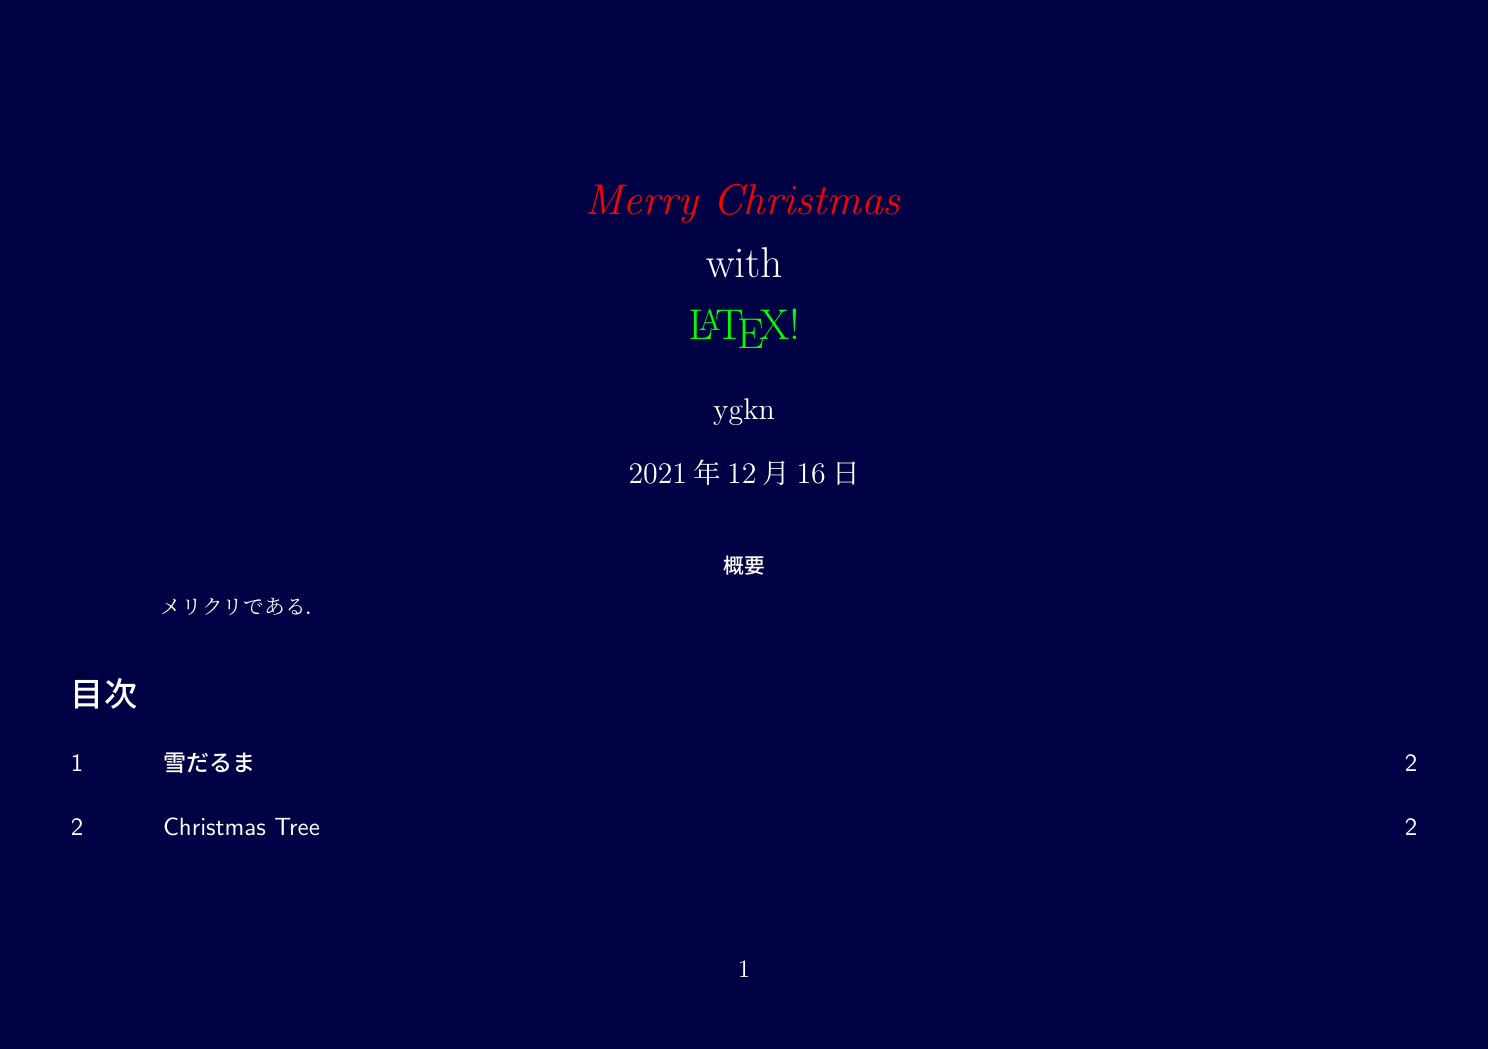
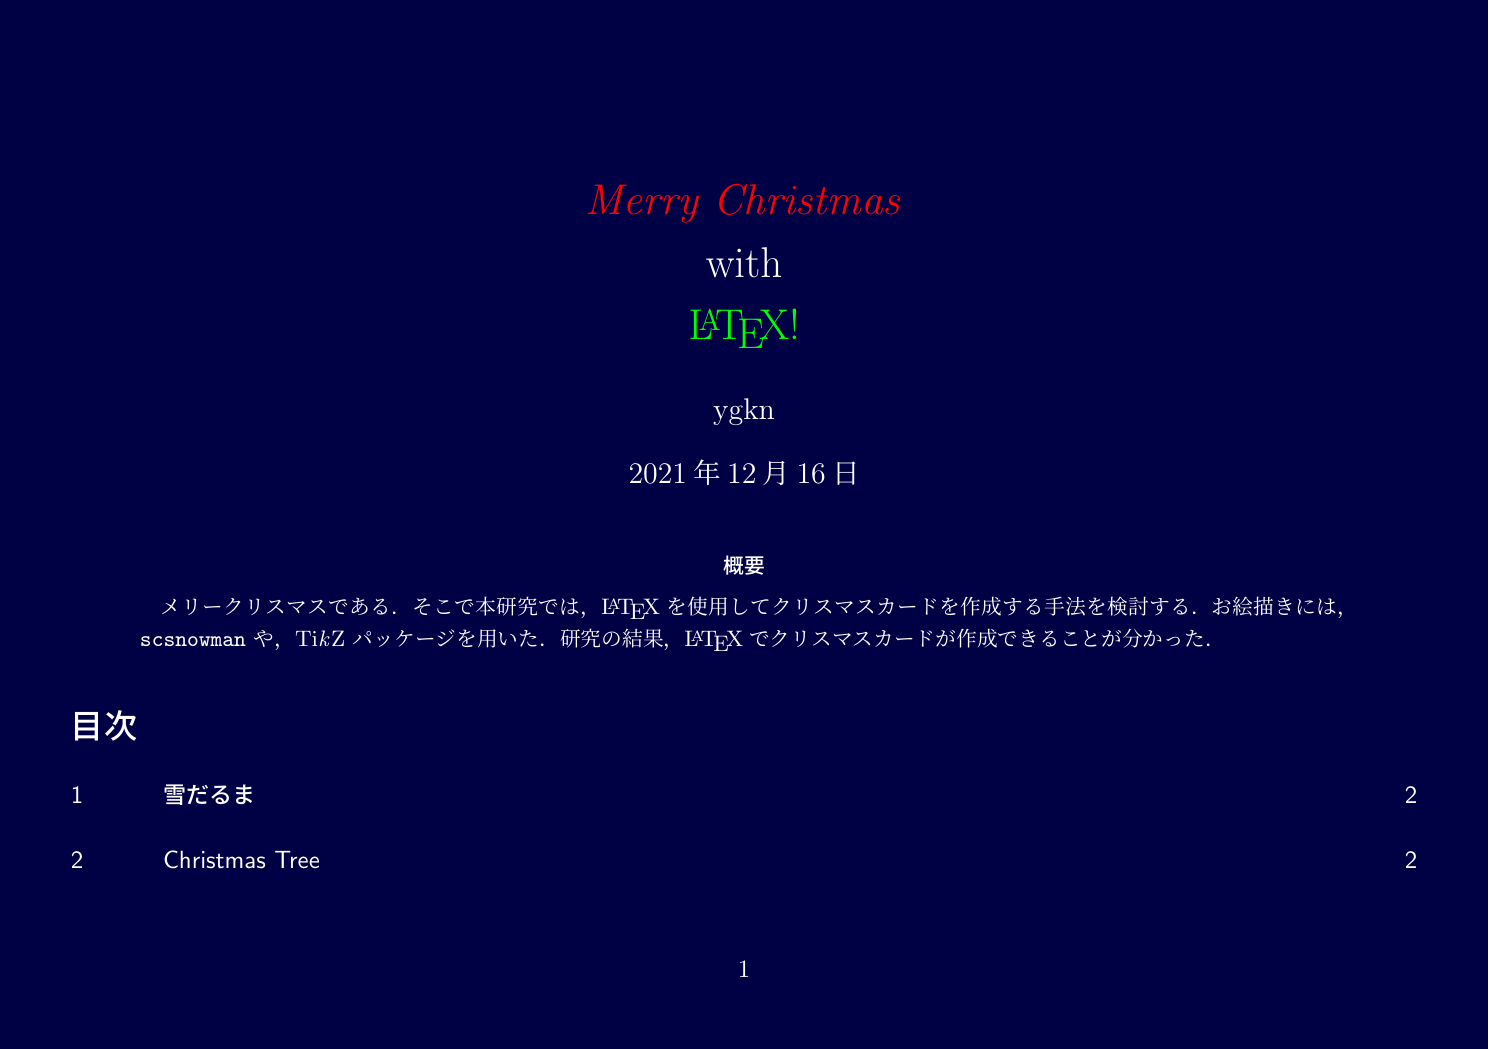
update abstruct

diff --git a/main.tex b/main.tex
@@ -71,7 +71,11 @@ with \\
 \maketitle
 
 \begin{abstract}
-  メリクリである．
+  メリークリスマスである．
+  そこで本研究では，\LaTeX を使用してクリスマスカードを作成する手法を検討する．
+  お絵描きには，
+  \texttt{scsnowman} や，Ti\textit{k}Z パッケージを用いた．
+  研究の結果，\LaTeX でクリスマスカードが作成できることが分かった．
 \end{abstract}
 
 \tableofcontents
